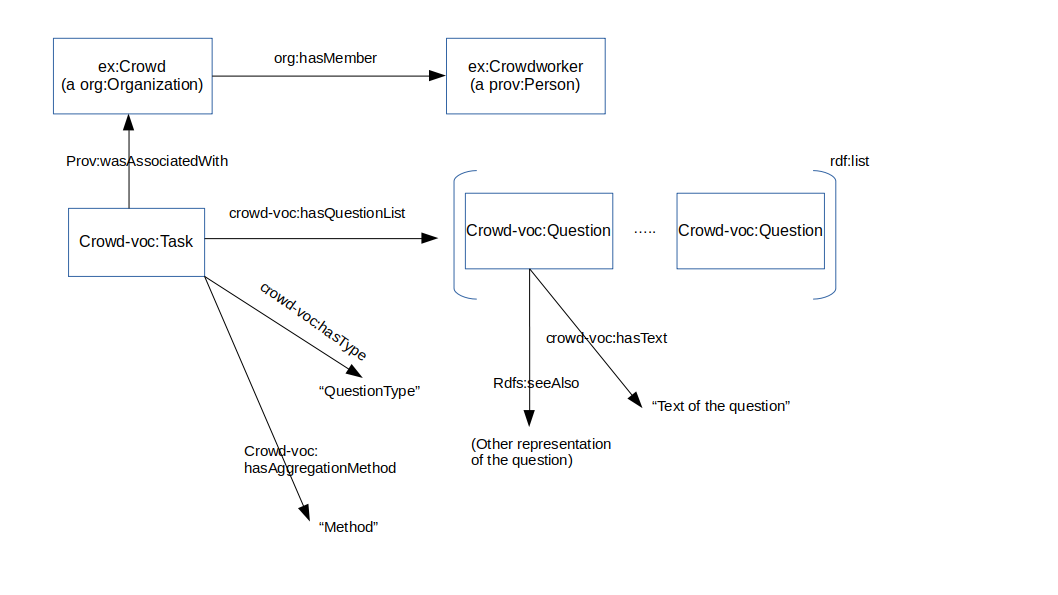
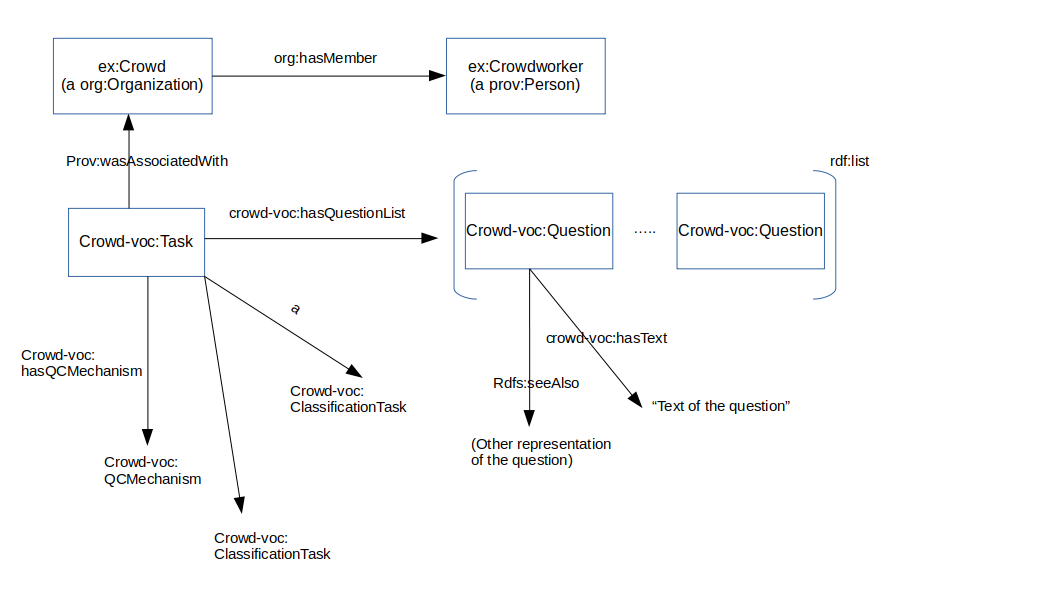
Updates list of properties and entities. Amends example of tasks and questions

diff --git a/crowd-voc.html b/crowd-voc.html
@@ -76,10 +76,10 @@ The first goal of the vocabulary is to allow crowdsourcing projects to describe 
       <h2>Overview</h2>
     </section>
     <p>
-The core of the vocabulary is shown in the figure below. We reuse as much as possible existing vocabularies. The main entity is <b>Task</b>, a <b>prov:Activity</b> that describes the crowdsourcing task, ultimately generating a <b>dcat:Dataset</b>. An instance of <b>Task</b> is linked to a <b>Crowd</b>, which is a subclass of <b>prov:Agent</b>. Crowds consists of instances of <b>Crowdworker</b>, a type of <b>prov:Person</b>. A crowdworker may be part of many crowds, assembled to run different tasks. To establish the link between crowds and crowdworkers, we reuse the <b>Organization</b> ontology, making <b>Crowd</b> an instance of <b>vocab-org:Organization</b>, allowing the usage of the <b>vocab-org:hasMember</b> property. Crowdworkers are identified by ids, depending on the platform where the crowdsourcing task is being run. The aim is not to store personal data about contributors, which is not accessible when running a crowdsourcing task, but to be able to distinguish between multiple contributors - this is needed when validating and aggregating the data submitted by the crowd. The crowd of a task refers to the set of contributors to the task rather than all users registered on the crowdsourcing platform.
+The core of the vocabulary is shown in the figure below. We reuse as much as possible existing vocabularies. The main entity is <b>Task</b>, a subclass of <b>prov:Activity</b> that describes the crowdsourcing task, ultimately generating a <b>dcat:Dataset</b>. An instance of <b>Task</b> is linked to a <b>Crowd</b>, which is a subclass of <b>prov:Agent</b>. Crowds consists of instances of <b>Crowdworker</b>, a type of <b>prov:Person</b>. A crowdworker may be part of many crowds, assembled to run different tasks. To establish the link between crowds and crowdworkers, we reuse the <b>Organization</b> ontology, making <b>Crowd</b> an instance of <b>org:Organization</b>, allowing the usage of the <b>org:hasMember</b> property. Crowdworkers are identified by ids, depending on the platform where the crowdsourcing task is being run. The aim is not to store personal data about contributors, which is not accessible when running a crowdsourcing task, but to be able to distinguish between multiple contributors - this is needed when validating and aggregating the data submitted by the crowd. The crowd of a task refers to the set of contributors to the task rather than all users registered on the crowdsourcing platform.
     </p>
 
-    <p> A task is comprised by an rdf:list of Questions that models the order on which questions are asked to crowdworkers. Each question has a hasText property, and a seeAlso that links to a more complex representation of the question, if available.
+    <p> A task is comprised by an <b>rdf:list</b> of <b>Questions</b> that models the order on which questions are asked to crowdworkers. Each question has a hasText property, and a <b>rdf:seeAlso</b> that links to a more complex representation of the question, if available.
     </p>
 
 
@@ -92,49 +92,49 @@ The core of the vocabulary is shown in the figure below. We reuse as much as pos
     ex:aTask
         a prov:Activity;
         a crowd-voc:Task;
-	dcterms:description "My Crowdsourcing task"
-	prov:wasAssociatedWith ex:Crowd .
-	crowd-voc:hasQuestion (ex:question1,ex:question2)
+        dcterms:description "My crowdsourcing task";
+        prov:wasAssociatedWith ex:Crowd;
+        crowd-voc:hasQuestionList (ex:question1,ex:question2) .
 
     ex:Crowd
-    	a org:Organization
-	org:hasMember ex:a_crowdworker
+    	a org:Organization;
+        org:hasMember ex:a_crowdworker
 
     ex:a_crowdworker
-    	a prov:Person
+    	a prov:Person;
 
 
     ex:question1
     	a crowd-voc:Question;
-	crowd-voc:hasText "Cars in images"
+        crowd-voc:hasText "Identify cars in images".
     ex:question2
     	a crowd-voc:Question;
-	crowd-voc:hasText "Cars at traffic lights in images"
+        crowd-voc:hasText "Now identify cars at traffic lights in images".
 
     ex:aCrowd
     	a crowd-voc:Crowd;
-	a prov:Agent;
-	vocab-org:hasMember ex:Crowdworker;
+        a prov:Agent;
+        vocab-org:hasMember ex:Crowdworker.
 
     ex:Crowdworker
-    	a prov:Person;
+    	a prov:Person.
 
     ex:generatedDataset 
     	a dcat:dataset;
-	dcterms:title "Dataset generated by the task";
-	prov:wasGeneratedBy ex:aTask .
+        dcterms:title "Dataset generated by the task";
+        prov:wasGeneratedBy ex:aTask .
 
  	</pre>
 	</div>
 
     <p>
-    A task is a collection of different activities that ultimatelly results in a dataset. It can consist of subtasks of the same or different types. Our aim is to describe the design of the crowdsourcing effort, including standard classes of tasks, which are approached in a particular way in crowdsourcing (e.g., classification, sentiment analysis, transcription, review etc.) and activities the crowd was asked to carry out (e.g. answer questions, check a website, translate from one language to another etc.). The reader is provided with a broad overview of the workflow used, rather than a fully specified data or control flow, as in a workflow language.
+    A task is a collection of different activities that ultimately results in a dataset. It can consist of subtasks of the same or different types. Our aim is to describe the design of the crowdsourcing effort, including standard classes of tasks, which are approached in a particular way in crowdsourcing (e.g., classification, sentiment analysis, transcription, review etc.) and activities the crowd was asked to carry out (e.g. answer questions, check a website, translate from one language to another etc.). The reader is provided with a broad overview of the workflow used, rather than a fully specified data or control flow, as in a workflow language.
 	
 	Each task (and all its subtasks) is linked to an input dataset (e.g. a collection of images) and an output dataset, which the crowd has helped produce. The output dataset is a consolidated version of the answers provided by the crowd, including validation, aggregation etc. A task can contain several questions, which refer to the exact wording used to seek contributions (e.g. "Identify all people, places, and organisations in the following paragraph").
-	
-    In the example below, the task is comprised by two subtasks, a <b>ClassificationTask</b> and a <b>SentimentAnalysisTask</b>, each with one question. 
 
-    The below figure describes the subdivision of a task in subtasks, to model more complex situations on which different tasks (possibly with different crowds) are applied. The subtask list is modeled as a rdf:list of Tasks. Each subtask takes as input the dataset generated by the previous task. The result of the last subtask is also the final output of the general task.
+    </p>
+    <p>
+    The below figure describes the subdivision of a task in subtasks, to model more complex situations on which different tasks (possibly with different crowds) are applied. The subtask list is modeled as a rdf:list of Tasks. Each subtask takes as input the dataset generated by the previous task. 
     </p>
 
 
@@ -145,29 +145,28 @@ The core of the vocabulary is shown in the figure below. We reuse as much as pos
 	<pre class="example highlight preprint">
     ex:aTask
         a prov:Activity;
-	dcterms:hasPart ex:subTask1;
-	dcterms:hasPart ex:subTask2;
-	dcterms:description "My crowdsourcing task";
-	prov:wasAssociatedWith ex:aCrowd;
-	prov:used ex:InputDataset;
-	prov:generated ex:OutputDataset;
+        dcterms:description "My crowdsourcing task";
+        prov:wasAssociatedWith ex:aCrowd;
+        prov:used ex:InputDataset;
+        prov:generated ex:OutputDataset;
+        crowd-voc:hasSubTasks (ex:question1,ex:question2) .
 
     ex:subTask1
-    	a prov:Activity;
-	dcterms:description "Brexit tweets";
-	a crowd-voc:ClassificationTask .
-	crowd-voc:hasAggregation ex:s1_aggregation
-	crowd-voc:hasQCMechanism ex:s1_qc
-	crowd-voc:hasQuestion ex:s1_q1
+    	a crowd-voc:Task;
+        dcterms:description "Brexit tweets";
+        a crowd-voc:ClassificationTask .
+        crowd-voc:hasAggregation ex:s1_aggregation
+        crowd-voc:hasQCMechanism ex:s1_qc
+        crowd-voc:hasQuestion ex:s1_q1
 
 
     ex:subTask2
-    	a prov:Activity;
-	dcterms:description "Sentiment analysis on tweets";
-	a crowd-voc:SentimentAnalysisTask .
-	crowd-voc:hasAggregation ex:s2_aggregation
-	crowd-voc:hasQCMechanism ex:s2_qc
-	crowd-voc:hasQuestion ex:s2_q1
+    	a crowd-voc:Task;
+        dcterms:description "Sentiment analysis on tweets";
+        a crowd-voc:SentimentAnalysisTask .
+        crowd-voc:hasAggregation ex:s2_aggregation
+        crowd-voc:hasQCMechanism ex:s2_qc
+        crowd-voc:hasQuestion ex:s2_q1
 
     ex:s1_aggregation
     	a crowd-voc:AggregationMethod
@@ -210,9 +209,6 @@ The core of the vocabulary is shown in the figure below. We reuse as much as pos
 		<li>  FeedbackTask </li> 
 		<li>  SentimentAnalysisTask </li> 
 		<li>  ContentCreationTask </li> 
-		<li>  SubTask </li> 
-		<!--	<li>  TaskType </li> -->
-		<!--<li>  Interaction </li> -->
 		<li>  Question </li>
 		<li>  QCMechanism </li>
 		<li>  AggregationMethod </li>
@@ -553,8 +549,9 @@ The core of the vocabulary is shown in the figure below. We reuse as much as pos
 	      <ul class="hlist">
 		<li>  hasAggregationMethod </li> 
 		<li>  hasQCMechanism </li> 
-		<li>  hasQuestion </li>
-		<li>  hasInteraction </li>
+		<li>  hasQuestionList </li>
+		<li>  hasSubTasks </li>
+		<li>  hasIncentive </li>
 		<li>  hasMotivation </li>
 	      </ul>
 
@@ -573,7 +570,7 @@ The core of the vocabulary is shown in the figure below. We reuse as much as pos
 			<dl>
 			<dt>has domain</dt>
 			<dd>
-				<a href="#SubTask" title="">SubTask</a>
+				<a href="#Task" title="">Task</a>
 			<sup class="type-c" title="class">c</sup>
 			</dd>
 			</dl>
@@ -601,7 +598,7 @@ The core of the vocabulary is shown in the figure below. We reuse as much as pos
 			<dl>
 			<dt>has domain</dt>
 			<dd>
-				<a href="#SubTask" title="">SubTask</a>
+				<a href="#Task" title="">Task</a>
 			<sup class="type-c" title="class">c</sup>
 			</dd>
 			</dl>
@@ -617,7 +614,7 @@ The core of the vocabulary is shown in the figure below. We reuse as much as pos
       </div>
 
 
-	<div class="entity" id="hasQuestion">
+	<div class="entity" id="hasQuestionList">
 		<h3>hasQuestion
 			<sup class="type-dp" title="data property">dp</sup>
 			<!--	<span class="backlink"> back to <a href="#toc">ToC</a> or <a href="#dataproperties">Data Property ToC</a>  -->
@@ -633,14 +630,14 @@ The core of the vocabulary is shown in the figure below. We reuse as much as pos
 			<dl>
 			<dt>has domain</dt>
 			<dd>
-				<a href="#SubTask" title="">SubTask</a>
+				<a href="#Task" title="">Task</a>
 			<sup class="type-c" title="class">c</sup>
 			</dd>
 			</dl>
 			<dl>
 			<dt>has range</dt>
 			<dd>
-				<a href="#hasQuestion" title="">Question</a>
+				<a href="#Question" title="">rdf:list of Question</a>
 			<sup class="type-c" title="class">c</sup>
 			</dd>
 			</dl>
@@ -648,6 +645,36 @@ The core of the vocabulary is shown in the figure below. We reuse as much as pos
 	</div>
       </div>
 
+	<div class="entity" id="hasSubTasks">
+		<h3>hasSubTasks
+			<sup class="type-dp" title="data property">dp</sup>
+			<!--	<span class="backlink"> back to <a href="#toc">ToC</a> or <a href="#dataproperties">Data Property ToC</a>  -->
+			</span>
+		</h3>
+		<p>
+		List of subtasks of a task
+
+		<strong>IRI:</strong> </p>
+		<div class="description">
+			<p>
+			<strong>has characteristics:</strong> functional</p>
+			<dl>
+			<dt>has domain</dt>
+			<dd>
+				<a href="#Task" title="">Task</a>
+			<sup class="type-c" title="class">c</sup>
+			</dd>
+			</dl>
+			<dl>
+			<dt>has range</dt>
+			<dd>
+				<a href="#Task" title="">rdf:list of Task</a>
+			<sup class="type-c" title="class">c</sup>
+			</dd>
+			</dl>
+		</div>
+	</div>
+      </div>
 	<div class="entity" id="hasMotivation">
 		<h3>hasMotivation
 			<sup class="type-dp" title="data property">dp</sup>
@@ -664,7 +691,7 @@ The core of the vocabulary is shown in the figure below. We reuse as much as pos
 			<dl>
 			<dt>has domain</dt>
 			<dd>
-				<a href="#SubTask" title="">SubTask</a>
+				<a href="#Task" title="">Task</a>
 			<sup class="type-c" title="class">c</sup>
 			</dd>
 			</dl>
